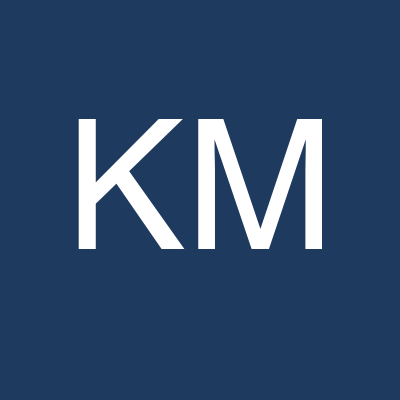
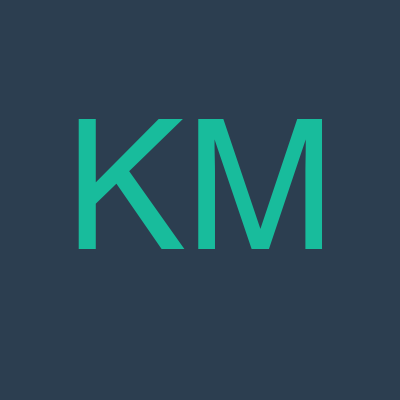
Use stock Flatly/Darkly palette

Changed region(s): [[0.18, 0.3, 0.81, 0.63]]

diff --git a/styles/styles.scss b/styles/styles.scss
@@ -1,7 +1,7 @@
 /*-- scss:defaults --*/
-$primary: #1f3a5f;
-$body-bg-dark: #1a1f2e;
-$link-color: #2c7da0;
+// Use Bootswatch Flatly (light) + Darkly (dark) defaults.
+// Flatly primary: #2C3E50, accent: #18BC9C
+// Darkly  primary: #375A7F, accent: #00BC8C
 
 /*-- scss:rules --*/
 .navbar-brand {
@@ -16,6 +16,13 @@ $link-color: #2c7da0;
   font-size: 0.9rem;
 }
 
+// Subtle hover on listing cards
+.quarto-listing .card:hover {
+  transform: translateY(-2px);
+  transition: transform 0.15s ease-in-out;
+}
+
+// Tighten about-page link buttons
 .about-link {
-  margin-right: 0.5rem;
+  margin: 0.25rem;
 }
